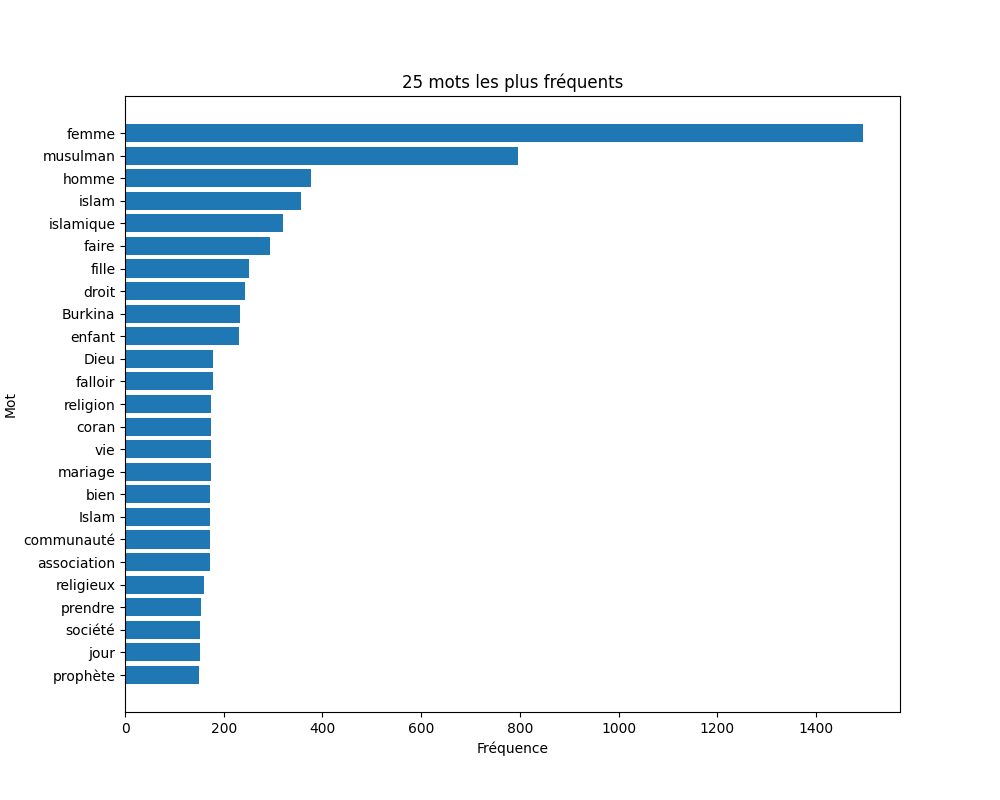
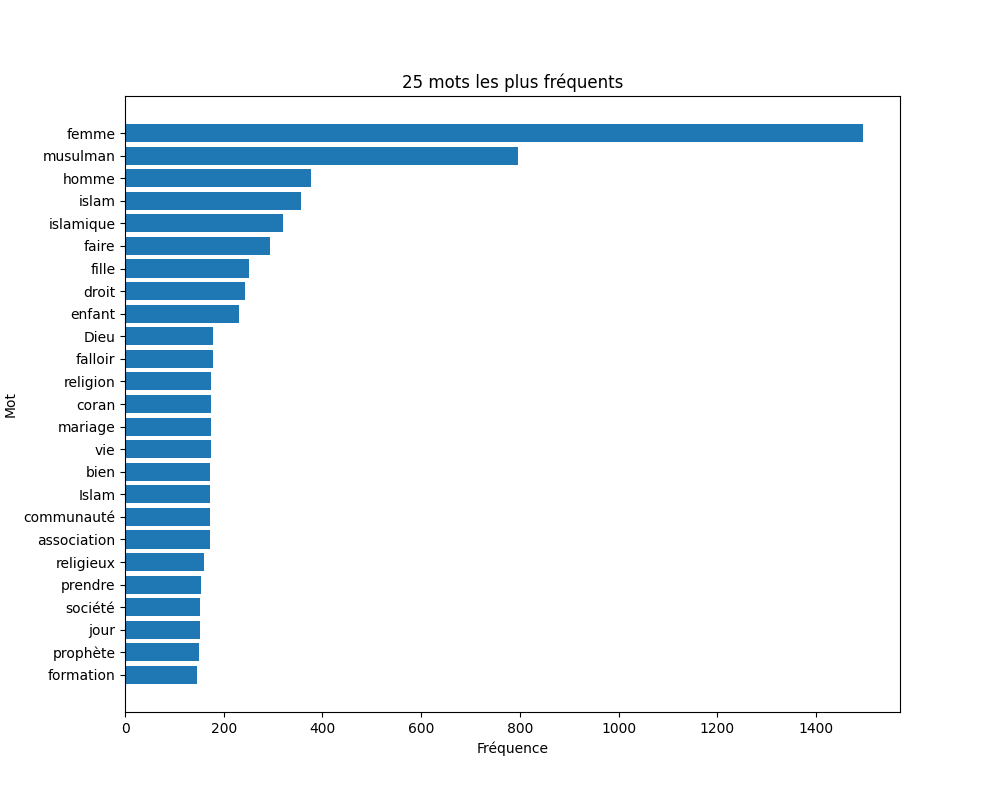
Mise à jour

Changed region(s): [[0.031, 0.375, 0.124, 0.875], [0.217, 0.4062, 0.248, 0.4375], [0.186, 0.6875, 0.217, 0.7188]]

diff --git a/4. fréquence_termes.py b/4. fréquence_termes.py
@@ -13,7 +13,7 @@ all_text = ' '.join(df['Processed_Content'].dropna())
 word_counts = Counter(all_text.split())
 
 # Liste des mots à exclure
-exclusion_list = ['être']  # Mots à exclure
+exclusion_list = ['être', 'Burkina']
 
 # Enlever les mots de la liste d'exclusion du compteur
 for word in exclusion_list:
